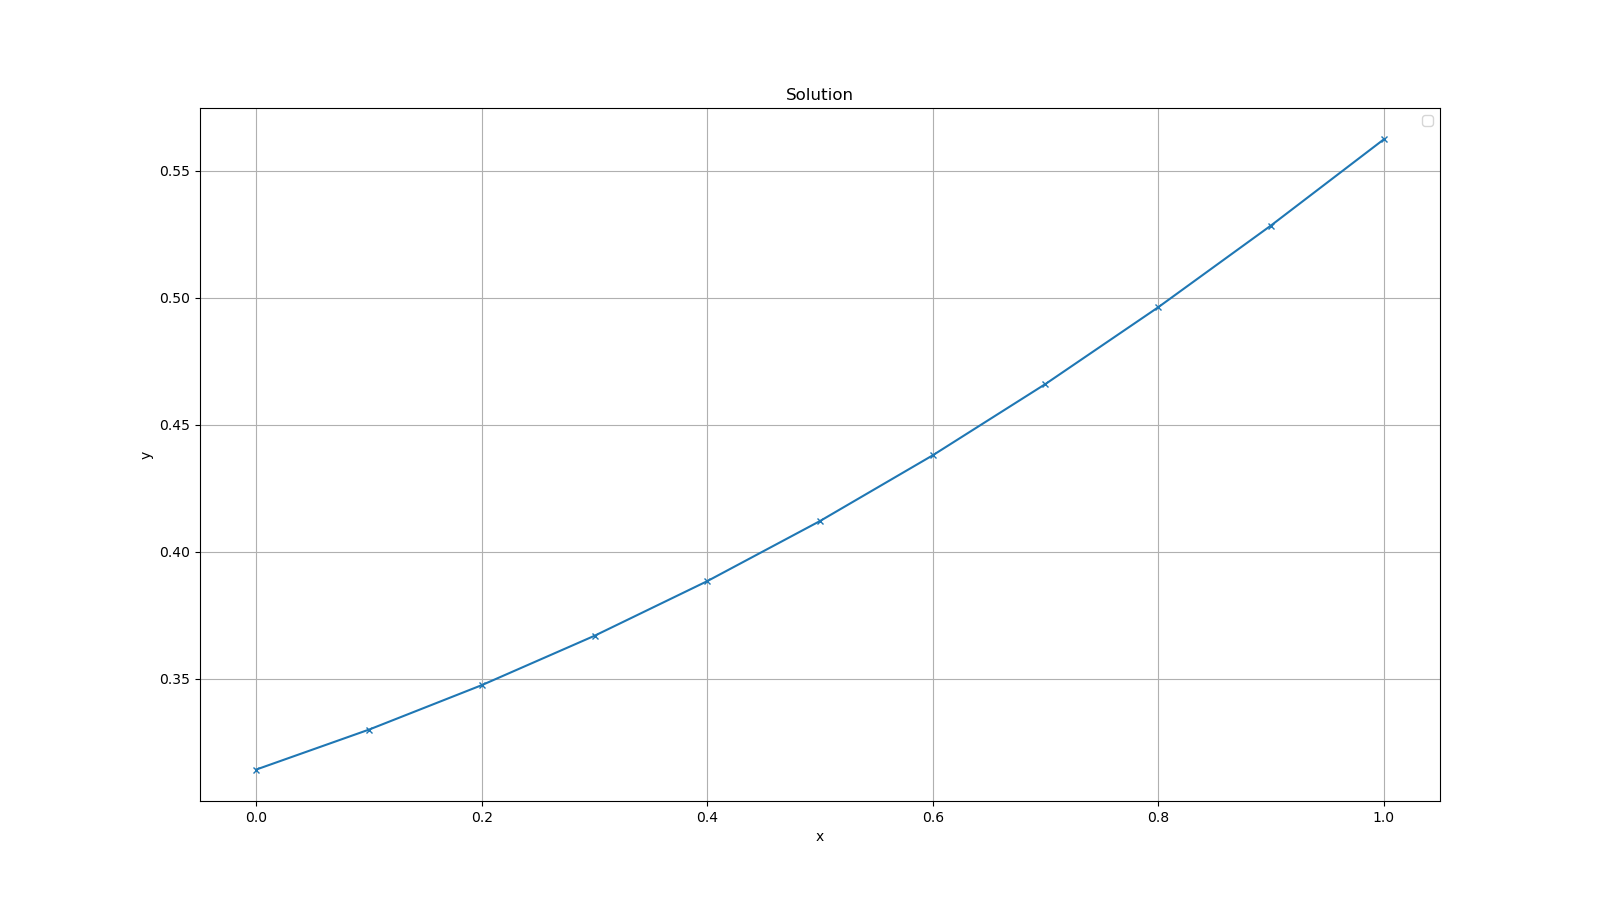
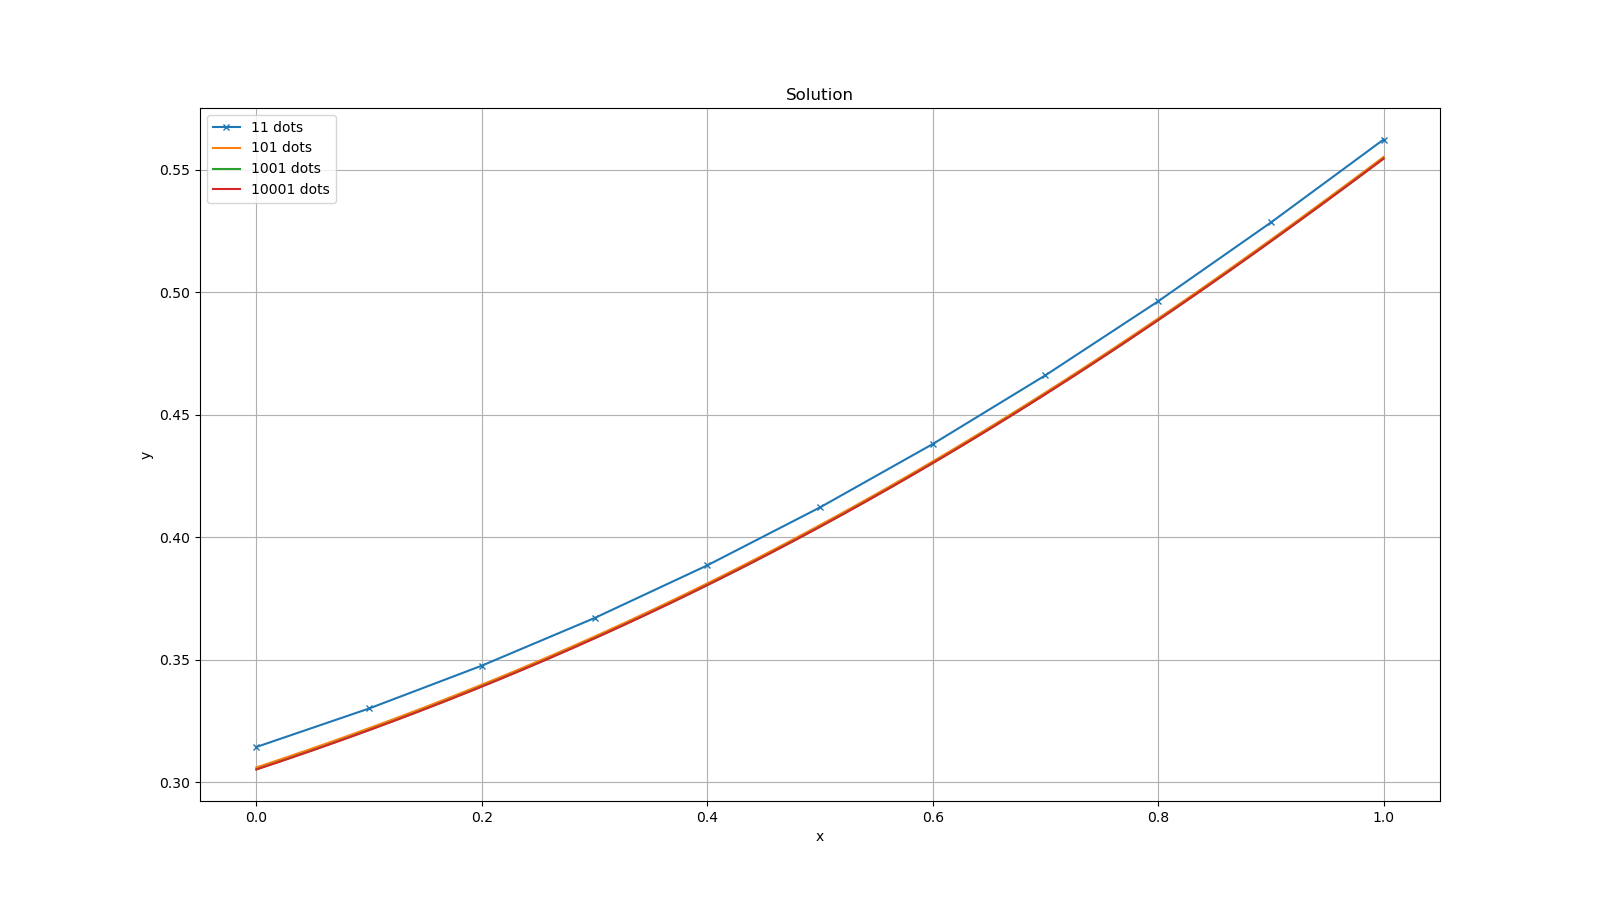
Update README.md

diff --git a/LabRun/Morozov.py b/LabRun/Morozov.py
@@ -7,7 +7,7 @@ k = lambda x: 1 + np.cos(x) ** 2
 q = 1 
 f = lambda x: np.sin(x) ** 2
 
-def matrix(N, h):
+def Matrix(N, h):
     matrix = np.zeros((N, N))
     val = np.zeros(N)
     matrix[0][0] = -k(0) - h
@@ -45,7 +45,7 @@ def reverse_run(p, r):
 N = 11
 h = 0.1
 
-matrix, val = matrix(N, h)
+matrix, val = Matrix(N, h)
 
 p, r = run(matrix, val)
 solution = reverse_run(p, r)
@@ -54,8 +54,47 @@ x = []
 for i in range(11):
     x.append(i*h)
 
+N = 101
+h = 0.01
+
+matrix1, val1 = Matrix(N, h)
+
+p1, r1 = run(matrix1, val1)
+solution1 = reverse_run(p1, r1)
+
+y = []
+for i in range(101):
+    y.append(i*h)
+
+N = 1001
+h = 0.001
+
+matrix2, val2 = Matrix(N, h)
+
+p2, r2 = run(matrix2, val2)
+solution2 = reverse_run(p2, r2)
+
+z = []
+for i in range(1001):
+    z.append(i*h)
+
+N = 10001
+h = 0.0001
+
+matrix3, val3 = Matrix(N, h)
+
+p3, r3 = run(matrix3, val3)
+solution3 = reverse_run(p3, r3)
+
+w = []
+for i in range(10001):
+    w.append(i*h)
+
 fig, ax = plt.subplots(figsize=(16, 9)) 
-ax.plot(x, solution, marker='x', markersize=4)
+ax.plot(x, solution, marker='x', markersize=4, label="11 dots")
+ax.plot(y, solution1, label="101 dots")
+ax.plot(z, solution2, label="1001 dots")
+ax.plot(w, solution3, label="10001 dots")
 ax.set_title('Solution')
 ax.set_xlabel('x')
 ax.set_ylabel('y')
@@ -63,4 +102,20 @@ ax.grid(True)
 ax.legend()
 fig.savefig(os.path.join("LabRun/solution.png"), dpi=100) 
 
+printable1 = []
+printable2 = []
+printable3 = []
+for i in range(101):
+    if(i % 10 == 0):
+        printable1.append(solution1[i])
+for i in range(1001):
+    if(i % 100 == 0):
+        printable2.append(solution2[i])
+for i in range(10001):
+    if(i % 1000 == 0):
+        printable3.append(solution3[i])
 
+print(solution)
+print(printable1)
+print(printable2)
+print(printable3)

diff --git a/LabRun/README.md b/LabRun/README.md
@@ -1,7 +1,4 @@
 ## Лабараторная работа 4
-Задача номер 6
-
-Уравнения и граничные условия 
 
 ![](Equasion.png)
 
